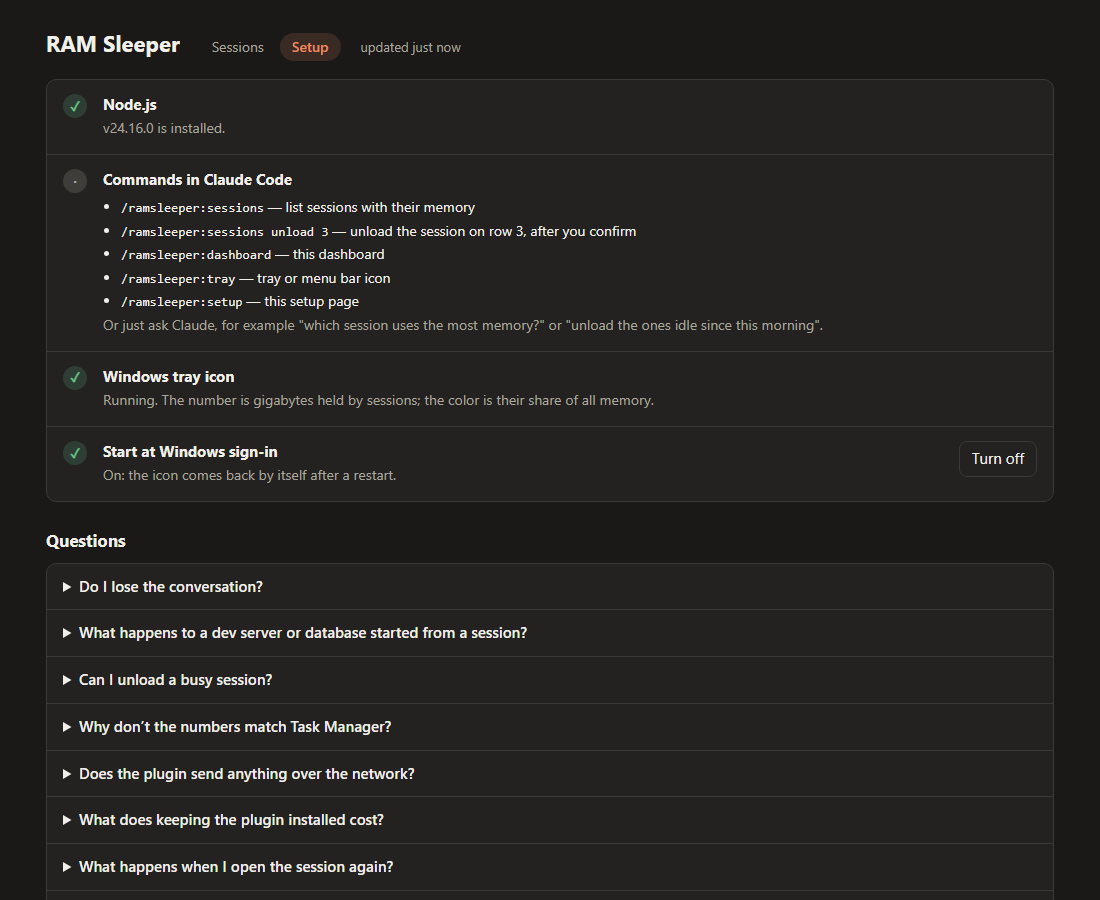
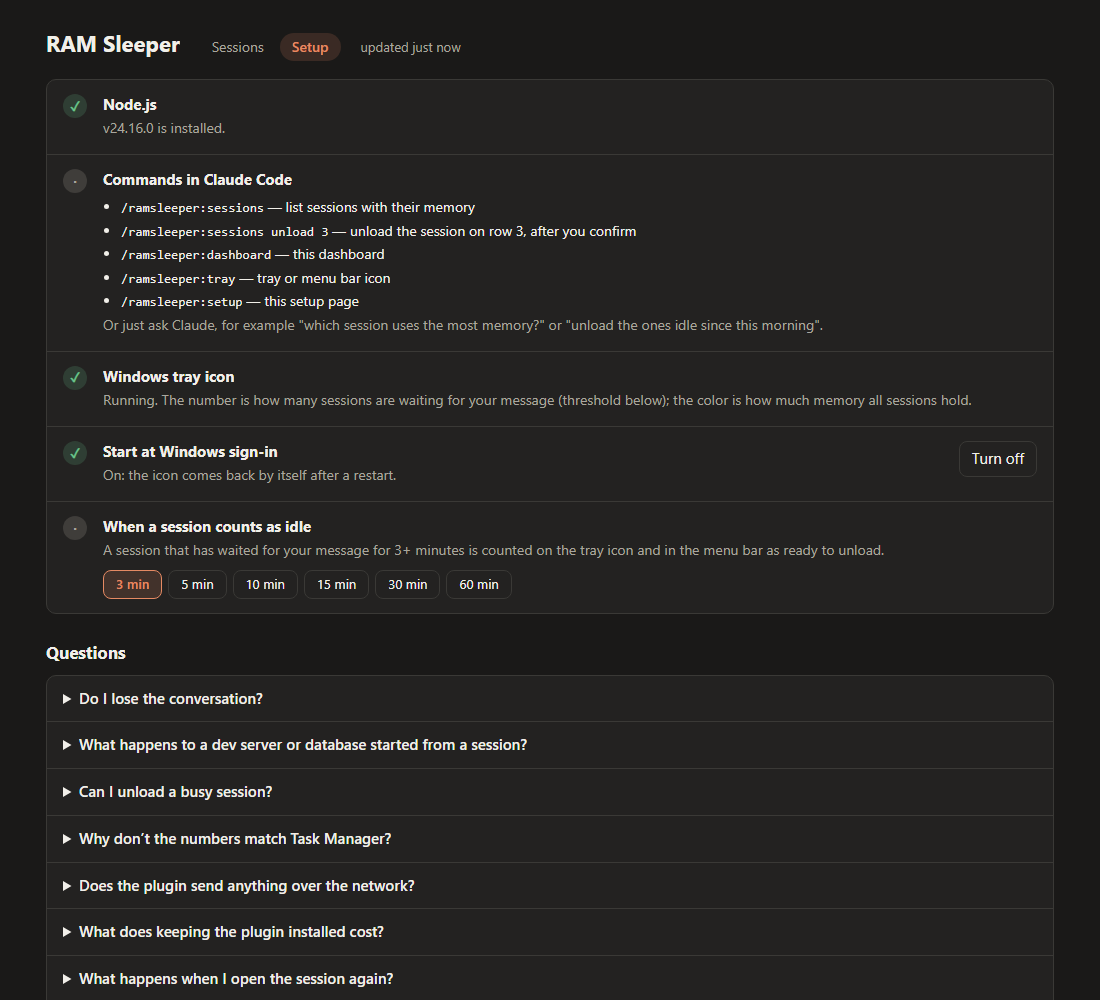
Idle threshold: 3 minutes by default, set on the setup page
- A session counts as idle (tray number, menu bar) after 3 minutes by
  default instead of 15. The setup page offers 3, 5, 10, 15, 30 and 60
  minutes and saves the choice in settings.json; RAMSLEEPER_IDLE_MINUTES
  still overrides it. The tray takes the value from sessions.mjs, so all
  surfaces agree and a change applies without restarting the tray.
- The tray screenshot shows the icons at 32 px instead of upscaled pixels,
  with what each color means.

diff --git a/skills/ramsleeper/scripts/dashboard.html b/skills/ramsleeper/scripts/dashboard.html
@@ -76,6 +76,9 @@
   .cmd button { padding: 3px 10px; font-size: 13px; }
   ul.cmds { margin: 6px 0 0; padding-left: 18px; font-size: 14px; }
   ul.cmds li { margin: 3px 0; }
+  .seg { display: flex; flex-wrap: wrap; gap: 6px; margin-top: 10px; }
+  .seg button { padding: 4px 12px; font-size: 13px; }
+  .seg button.on { background: var(--accent-soft); border-color: var(--accent); color: var(--accent); font-weight: 600; }
   .faq details { border-bottom: 1px solid var(--line); padding: 12px 16px; }
   .faq details:last-child { border-bottom: 0; }
   .faq summary { cursor: pointer; font-weight: 600; }
@@ -164,10 +167,13 @@ Object.assign(T, RU ? {
   cmdHint: 'Или просто спросите Claude: «какая сессия ест больше всего памяти?», «выгрузи те, что простаивают с утра».',
   cmds: [['/ramsleeper:sessions', 'список сессий с памятью'], ['/ramsleeper:sessions unload 3', 'выгрузить сессию из строки 3, с подтверждением'],
     ['/ramsleeper:dashboard', 'эта панель'], ['/ramsleeper:tray', 'значок в трее или строке меню'], ['/ramsleeper:setup', 'эта страница настройки']],
-  trayTitle: 'Значок в трее Windows', trayOn: 'Запущен. Цифра — сколько сессий простаивает 15+ минут, цвет — сколько памяти занимают все сессии.',
+  trayTitle: 'Значок в трее Windows', trayOn: 'Запущен. Цифра — сколько сессий ждут вашего сообщения (порог ниже), цвет — сколько памяти занимают все сессии.',
   trayOff: 'Не запущен. Клик по значку открывает список сессий с кнопками выгрузки.', trayStart: 'Запустить',
   autoTitle: 'Запуск при входе в Windows', autoOn: 'Включён: значок появится сам после перезагрузки.', autoOff: 'Выключен.',
   autoEnable: 'Включить', autoDisable: 'Выключить',
+  idleTitle: 'Когда сессия считается ждущей', min_: 'мин',
+  idleHint: m => `Сессия, которая ждёт вашего сообщения ${m}+ мин, попадает в цифру на значке трея и в строку меню: её можно выгрузить.`,
+  idleEnv: 'Сейчас значение задано переменной RAMSLEEPER_IDLE_MINUTES и здесь не меняется.',
   menuTitle: 'Строка меню', menuHint: 'Установите одно из приложений и выполните команду в терминале.',
   installed: 'установлено', notInstalled: 'не установлено', copy: 'Копировать', copied: 'Скопировано',
   faq: [
@@ -188,10 +194,13 @@ Object.assign(T, RU ? {
   cmdHint: 'Or just ask Claude, for example "which session uses the most memory?" or "unload the ones idle since this morning".',
   cmds: [['/ramsleeper:sessions', 'list sessions with their memory'], ['/ramsleeper:sessions unload 3', 'unload the session on row 3, after you confirm'],
     ['/ramsleeper:dashboard', 'this dashboard'], ['/ramsleeper:tray', 'tray or menu bar icon'], ['/ramsleeper:setup', 'this setup page']],
-  trayTitle: 'Windows tray icon', trayOn: 'Running. The number is how many sessions have been idle 15+ minutes; the color is how much memory all sessions hold.',
+  trayTitle: 'Windows tray icon', trayOn: 'Running. The number is how many sessions are waiting for your message (threshold below); the color is how much memory all sessions hold.',
   trayOff: 'Not running. Clicking the icon opens the session list with Unload buttons.', trayStart: 'Start',
   autoTitle: 'Start at Windows sign-in', autoOn: 'On: the icon comes back by itself after a restart.', autoOff: 'Off.',
   autoEnable: 'Turn on', autoDisable: 'Turn off',
+  idleTitle: 'When a session counts as idle', min_: 'min',
+  idleHint: m => `A session that has waited for your message for ${m}+ minutes is counted on the tray icon and in the menu bar as ready to unload.`,
+  idleEnv: 'The RAMSLEEPER_IDLE_MINUTES environment variable sets this now, so it can’t be changed here.',
   menuTitle: 'Menu bar', menuHint: 'Install one of these apps, then run the command in a terminal.',
   installed: 'installed', notInstalled: 'not installed', copy: 'Copy', copied: 'Copied',
   faq: [
@@ -344,6 +353,10 @@ function renderSetup() {
       s.tray.running ? '' : `<button data-act="tray">${T.trayStart}</button>`);
     html += step(s.tray.autostart, T.autoTitle, `<p>${s.tray.autostart ? T.autoOn : T.autoOff}</p>`,
       `<button data-act="${s.tray.autostart ? 'autostart-off' : 'autostart-on'}">${s.tray.autostart ? T.autoDisable : T.autoEnable}</button>`);
+  }
+  if (s.idle) {
+    const pick = s.idle.choices.map(m => `<button data-act="idle-${m}" class="${m === s.idle.minutes ? 'on' : ''}" aria-pressed="${m === s.idle.minutes}" ${s.idle.fromEnv ? 'disabled' : ''}>${m} ${T.min_}</button>`).join('');
+    html += step(null, T.idleTitle, `<p>${esc(T.idleHint(s.idle.minutes))}</p>${s.idle.fromEnv ? `<p>${esc(T.idleEnv)}</p>` : ''}<div class="seg">${pick}</div>`);
   }
   if (s.menubar && s.menubar.length) {
     const any = s.menubar.some(a => a.installed);

diff --git a/commands/tray.md b/commands/tray.md
@@ -8,7 +8,7 @@ On Windows, start the tray icon so it keeps running after this session ends:
 powershell.exe -NoProfile -Command "Start-Process powershell.exe -WindowStyle Hidden -ArgumentList '-NoProfile','-STA','-WindowStyle','Hidden','-ExecutionPolicy','Bypass','-File','\"${CLAUDE_PLUGIN_ROOT}/companion/windows-tray/ramsleeper-tray.ps1\"'"
 ```
 
-A second copy exits by itself, so running this again is harmless. Tell the user: the number on the icon is how many sessions have been idle 15+ minutes, and its color is how much of the RAM all Claude Code sessions hold (green, amber, red); hovering shows the exact figures; left-click lists the sessions with Unload buttons; right-click has "Start at Windows sign-in". After a plugin update, that option should be switched off and on again so it points at the new version.
+A second copy exits by itself, so running this again is harmless. Tell the user: the number on the icon is how many sessions have been idle for a few minutes (3 by default, changeable on the setup page), and its color is how much of the RAM all Claude Code sessions hold (green, amber, red); hovering shows the exact figures; left-click lists the sessions with Unload buttons; right-click has "Start at Windows sign-in". After a plugin update, that option should be switched off and on again so it points at the new version.
 
 On macOS or Linux, don't run anything. Explain that the menu bar item needs xbar or SwiftBar (macOS), or Argos (GNOME) or Kargos (KDE), and give this command to link it, with the plugin folder of the app they use:
 

diff --git a/README.md b/README.md
@@ -62,7 +62,7 @@ Claude desktop app itself: 1720 MB in 14 processes (never touched).
 
 ### The Windows tray icon
 
-The number on the icon is how many sessions have been idle for 15 minutes or more, which are the ones worth unloading. The color shows how much of your RAM all sessions hold: green below 15 %, amber below 30 %, red above. Hover over the icon for the exact figures, or click it for the list:
+The number on the icon is how many sessions have been waiting for your message for 3 minutes or more, which are the ones worth unloading. The threshold can be set to 3, 5, 10, 15, 30, or 60 minutes on the setup page. The color shows how much of your RAM all sessions hold: green below 15 %, amber below 30 %, red above. Hover over the icon for the exact figures, or click it for the list:
 
 ![Tray popup with the session list, and the tray icon in green, amber, and red](docs/images/tray-popup.png)
 
@@ -190,6 +190,7 @@ RAM Sleeper runs locally and sends nothing over the network. It reads these:
 
 It writes these:
 
+- The idle threshold you choose on the setup page is saved in `settings.json`, under `%LOCALAPPDATA%\ramsleeper\` on Windows and `~/.config/ramsleeper/` elsewhere. The `RAMSLEEPER_IDLE_MINUTES` environment variable overrides it.
 - The Windows tray records its process ID in `%LOCALAPPDATA%\ramsleeper\tray.pid`.
 - Turning on start at sign-in adds a `RAM Sleeper` shortcut to your Startup folder and a small launcher, `%LOCALAPPDATA%\ramsleeper\start-tray.ps1`, that starts the newest installed version. Turning it off removes both.
 
